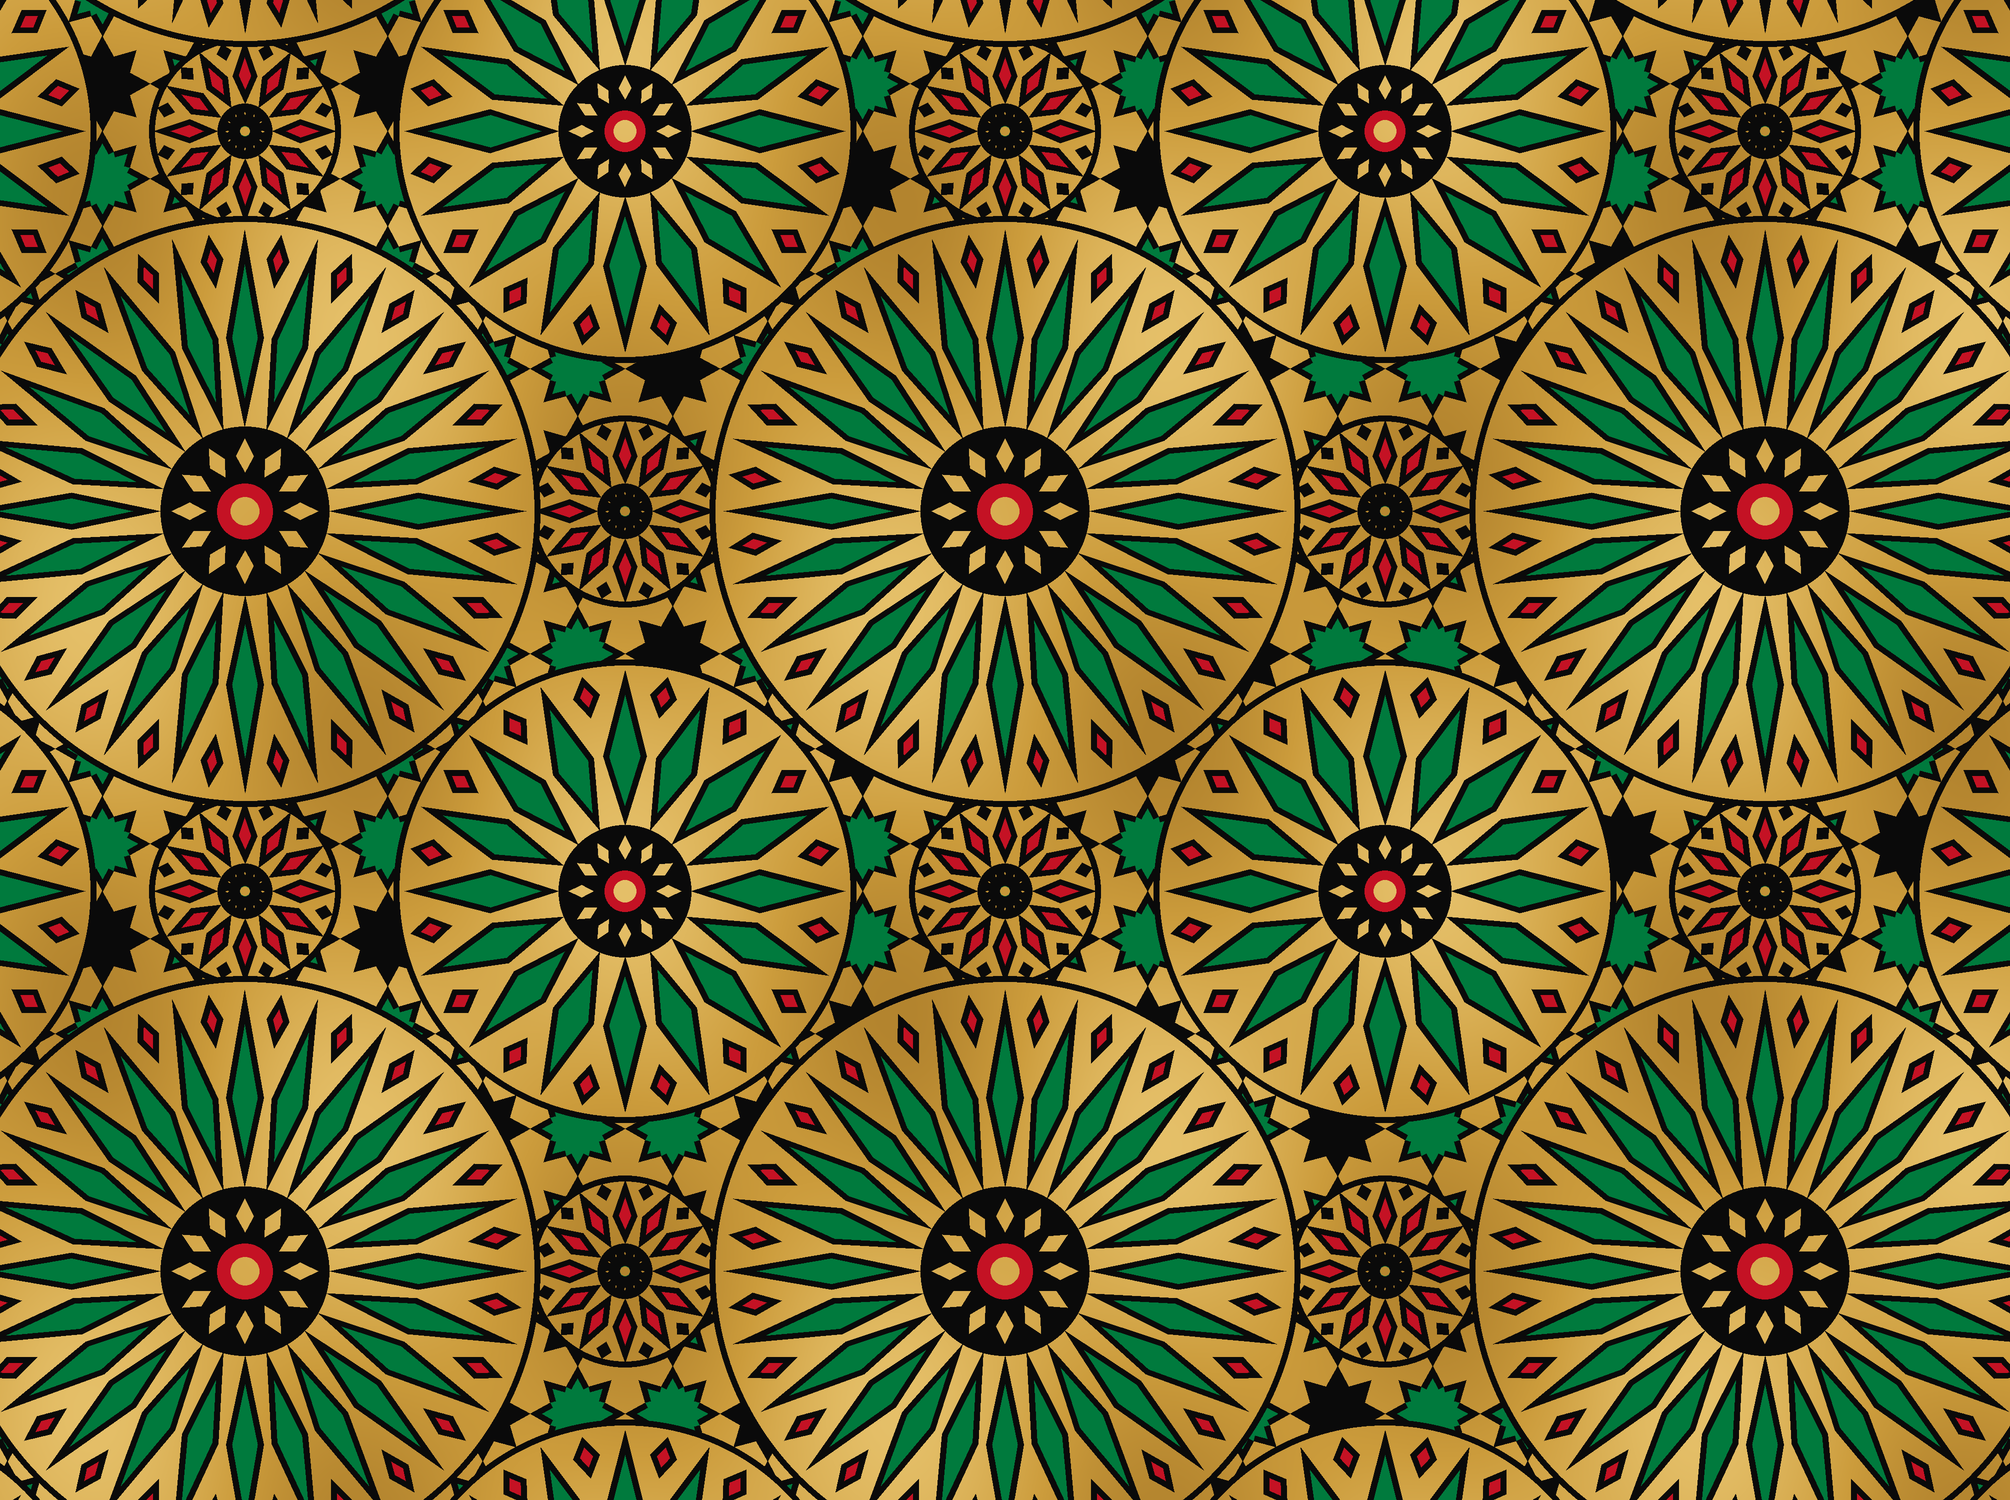
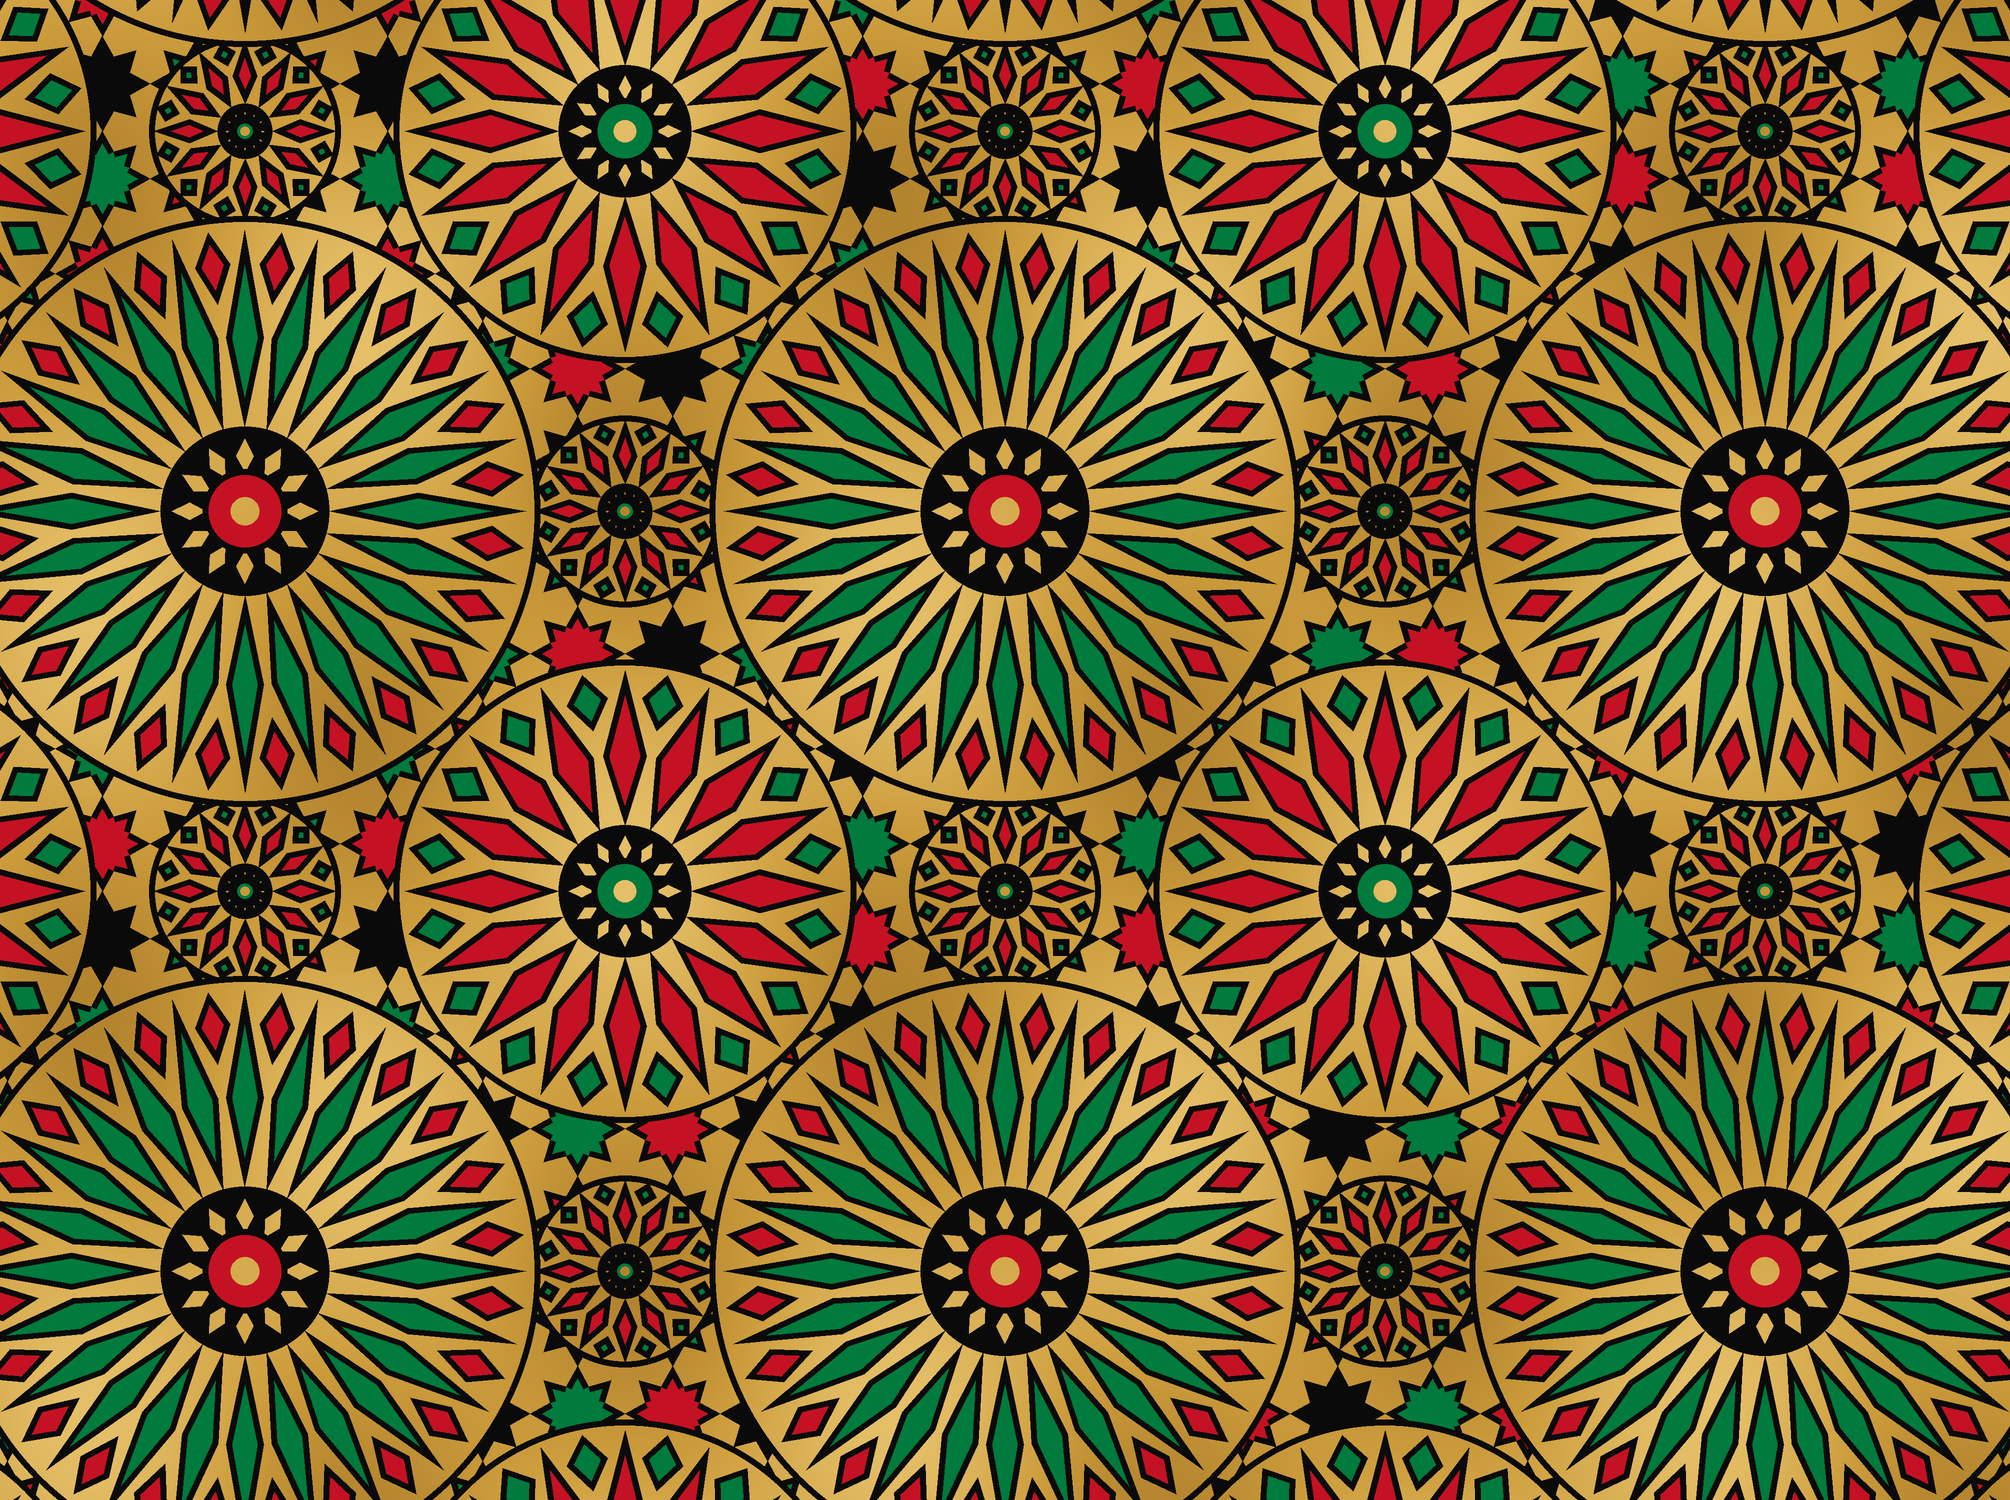
Zellige: make red clearly visible
Red petals on the medium rosettes, larger red diamonds and centers, and
red stars in the background mosaic.

Claude-Session: https://claude.ai/code/session_01Mt1Tg14bgvqpkRSeX5tTDt

diff --git a/heritage-crossbody-bag/make_zellige_design.py b/heritage-crossbody-bag/make_zellige_design.py
@@ -70,8 +70,8 @@ def rosette(d, cx, cy, R, n, petal, accent, g):
                   polar(cx, cy, R * 1.0, t), polar(cx, cy, R * 0.62, t + w * 0.82)], petal, g)
         # small accent drop between petal tips
         u = t + w
-        piece(d, [polar(cx, cy, R * 0.80, u), polar(cx, cy, R * 0.90, u - w * 0.35),
-                  polar(cx, cy, R * 0.99, u), polar(cx, cy, R * 0.90, u + w * 0.35)], accent, g)
+        piece(d, [polar(cx, cy, R * 0.74, u), polar(cx, cy, R * 0.88, u - w * 0.55),
+                  polar(cx, cy, R * 1.0, u), polar(cx, cy, R * 0.88, u + w * 0.55)], accent, g)
     # center: black ring of small gold petals around a red/gold core
     d.ellipse((cx - R * 0.30, cy - R * 0.30, cx + R * 0.30, cy + R * 0.30), fill=BLACK)
     m = 12
@@ -79,7 +79,7 @@ def rosette(d, cx, cy, R, n, petal, accent, g):
         t = TAU * i / m
         piece(d, [polar(cx, cy, R * 0.12, t), polar(cx, cy, R * 0.20, t - math.pi / m * 0.8),
                   polar(cx, cy, R * 0.28, t), polar(cx, cy, R * 0.20, t + math.pi / m * 0.8)], GOLD, max(1, g // 2))
-    d.ellipse((cx - R * 0.12, cy - R * 0.12, cx + R * 0.12, cy + R * 0.12), fill=accent, outline=BLACK, width=g)
+    d.ellipse((cx - R * 0.15, cy - R * 0.15, cx + R * 0.15, cy + R * 0.15), fill=accent, outline=BLACK, width=g)
     d.ellipse((cx - R * 0.05, cy - R * 0.05, cx + R * 0.05, cy + R * 0.05), fill=GOLD)
 
 
@@ -103,7 +103,7 @@ def field(W, H, a, ox=0.0, oy=0.0, swap=False):
     im = Image.new("RGB", (W, H), GOLD)
     d = ImageDraw.Draw(im)
     g = max(2, round(a * 0.008))
-    star_and_cross(d, W, H, a / 8, ox + a / 16, oy + a / 16, [main, main, BLACK], g)
+    star_and_cross(d, W, H, a / 8, ox + a / 16, oy + a / 16, [main, alt, BLACK], g)
     i0, j0 = -int(ox / a) - 2, -int(oy / a) - 2
     i1, j1 = int((W - ox) / a) + 2, int((H - oy) / a) + 2
     for j in range(j0, j1):
@@ -115,7 +115,7 @@ def field(W, H, a, ox=0.0, oy=0.0, swap=False):
     for j in range(j0, j1):
         for i in range(i0, i1):
             x, y = ox + i * a, oy + j * a
-            rosette(d, x + a / 2, y + a / 2, a * 0.29, 16, main, alt, g)   # medium
+            rosette(d, x + a / 2, y + a / 2, a * 0.29, 16, alt, main, g)   # medium: red petals
             rosette(d, x, y, a * 0.37, 24, main, alt, g)                   # large
     return im
 
